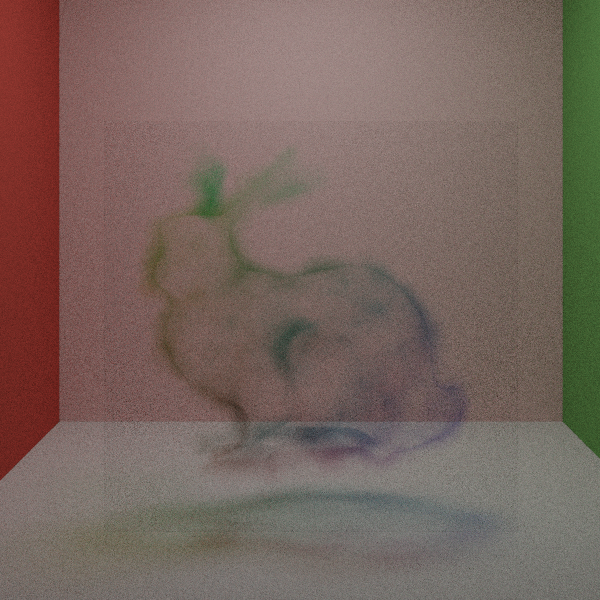
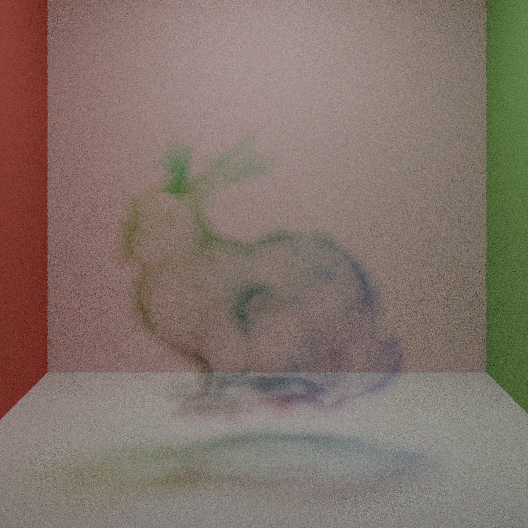
Update for V1_0_1

Changed region(s): [[0.0, 0.0, 1.0, 1.0], [0.303, 0.0, 0.3636, 0.0303], [0.8182, 0.0, 0.8485, 0.0303]]

diff --git a/Renderer/Renderer.mm b/Renderer/Renderer.mm
@@ -554,8 +554,8 @@ static const size_t alignedUniformsSize = (sizeof(Uniforms) + 255) & ~255;
 
 - (void)mtkView:(MTKView *)view drawableSizeWillChange:(CGSize)size
 {
-    size.width = 256;
-    size.height = 256;
+//    size.width = 256;
+//    size.height = 256;
     _size = size;
 
     // Create a pair of textures that the ray tracing kernel uses to accumulate
@@ -769,41 +769,41 @@ static const size_t alignedUniformsSize = (sizeof(Uniforms) + 255) & ~255;
     }
     
     // Save drawable texture into image
-    if(view.currentDrawable && _frameIndex % 1024 == 0){
-        
-        CIImage *image = [[CIImage alloc] initWithMTLTexture:_accumulationTargets[0] options:nil];
-
-        CGColorSpaceRef colorSpace = CGColorSpaceCreateWithName(kCGColorSpaceSRGB);
-
-        CIContext *context = [[CIContext alloc] initWithOptions:nil];
-        CGImageRef cgImage = [context createCGImage:image fromRect:image.extent];
-
-        NSBitmapImageRep *bitmapRep = [[NSBitmapImageRep alloc] initWithCGImage:cgImage];
-        NSData *pngData = [bitmapRep representationUsingType:NSBitmapImageFileTypePNG properties:@{}];
-        
-        NSDate *currentDate = [NSDate date];
-        NSDateFormatter *dateFormatter = [[NSDateFormatter alloc] init];
-        [dateFormatter setDateFormat:@"yyyyMMddHHmmss"];
-        NSString *timeStampString = [dateFormatter stringFromDate:currentDate];
-        NSString *path = [NSString stringWithFormat:@"./i_%@.png", timeStampString];
-        NSString *directory = @"sphere/naive/lod1/y_rotate/30_fov";
-        [[NSFileManager defaultManager] createDirectoryAtPath:directory withIntermediateDirectories:YES attributes:nil error:nil];
-        path = [directory stringByAppendingPathComponent:path];
-        
-        [pngData writeToFile:path atomically:NO];
-
-        CGImageRelease(cgImage);
-        CGColorSpaceRelease(colorSpace);
+//    if(view.currentDrawable && _frameIndex % 1024 == 0){
+//        
+//        CIImage *image = [[CIImage alloc] initWithMTLTexture:_accumulationTargets[0] options:nil];
+//
+//        CGColorSpaceRef colorSpace = CGColorSpaceCreateWithName(kCGColorSpaceSRGB);
+//
+//        CIContext *context = [[CIContext alloc] initWithOptions:nil];
+//        CGImageRef cgImage = [context createCGImage:image fromRect:image.extent];
+//
+//        NSBitmapImageRep *bitmapRep = [[NSBitmapImageRep alloc] initWithCGImage:cgImage];
+//        NSData *pngData = [bitmapRep representationUsingType:NSBitmapImageFileTypePNG properties:@{}];
+//        
+//        NSDate *currentDate = [NSDate date];
+//        NSDateFormatter *dateFormatter = [[NSDateFormatter alloc] init];
+//        [dateFormatter setDateFormat:@"yyyyMMddHHmmss"];
+//        NSString *timeStampString = [dateFormatter stringFromDate:currentDate];
+//        NSString *path = [NSString stringWithFormat:@"./i_%@.png", timeStampString];
+//        NSString *directory = @"saved_image";
+//        [[NSFileManager defaultManager] createDirectoryAtPath:directory withIntermediateDirectories:YES attributes:nil error:nil];
+//        path = [directory stringByAppendingPathComponent:path];
+//        
+//        [pngData writeToFile:path atomically:NO];
+//
+//        CGImageRelease(cgImage);
+//        CGColorSpaceRelease(colorSpace);
         
 //        _frameIndex = 0;
 //        _degree += 1;
 //        [self createAccelerationStructures];
 //        [self createPipelines];
-    }
+//    }
     
-    if(_degree == 361){
-        exit(0);
-    }
+//    if(_degree == 361){
+//        exit(0);
+//    }
 
     // Finally, commit the command buffer so that the GPU can start executing.
     [commandBuffer commit];

diff --git a/Renderer/RenderScene.mm b/Renderer/RenderScene.mm
@@ -297,9 +297,9 @@ id<MTLTexture> createVDBVolume(NSString * fileName, id<MTLDevice> device, float 
                     values[value_index + 1] = floatToHalf((float((j - bbox.min().y()))/(bbox.max().y()-bbox.min().y()) / 4 + 0.75));
                     values[value_index + 2] = floatToHalf((float((i - bbox.min().x()))/(bbox.max().x()-bbox.min().x()) / 3 + 0.66));
                 }else{
-                    values[value_index] = floatToHalf(0.f);
-                    values[value_index + 1] = floatToHalf(0.f);
-                    values[value_index + 2] = floatToHalf(0.f);
+                    values[value_index] = floatToHalf(1.f);
+                    values[value_index + 1] = floatToHalf(1.f);
+                    values[value_index + 2] = floatToHalf(1.f);
                 }
                 
                 // density
@@ -2059,7 +2059,7 @@ float3 getTriangleNormal(float3 v0, float3 v1, float3 v2) {
     sphere_material->is_glass = false;
     back_wall_material->color = vector3(0.2f, 0.1f, 0.3f);
     light_material->color = vector3(20.f, 20.f, 20.f);
-    glass->is_glass = false;
+    glass->is_glass = true;
     glass->color = vector3(1.0f, 1.0f, 1.0f);
     glass->is_contain_volume = true;
 
@@ -2179,8 +2179,10 @@ float3 getTriangleNormal(float3 v0, float3 v1, float3 v2) {
     std::cout << "Max density: " << scene->_maxDensity << std::endl;
     size = size / MIN(MIN(size.x, size.y), size.z);
     
-    transform = matrix4x4_translation(0.0f, 0.99f, 0.0f) * matrix4x4_rotation(90.f/180.f* M_PI, vector3(0.f, 1.f, 0.f)) * matrix4x4_scale(0.618, 0.618, 0.618);
-    //BUGHERE * matrix4x4_rotation(75.f/180.f* M_PI, vector3(0.f, 0.f, 1.f))
+    transform = matrix4x4_translation(0.0f, 0.99f, 0.0f) *
+        matrix4x4_rotation(-90.f/180.f* M_PI, vector3(1.f, 0.f, 0.f)) *
+        matrix4x4_rotation(-90.f/180.f* M_PI, vector3(0.f, 0.f, 1.f)) *
+        matrix4x4_scale(0.618, 0.618, 0.618);
     
     // Create volume
     GeometryInstance *volumeMeshInstance = [[GeometryInstance alloc] initWithGeometry:volumeMesh
